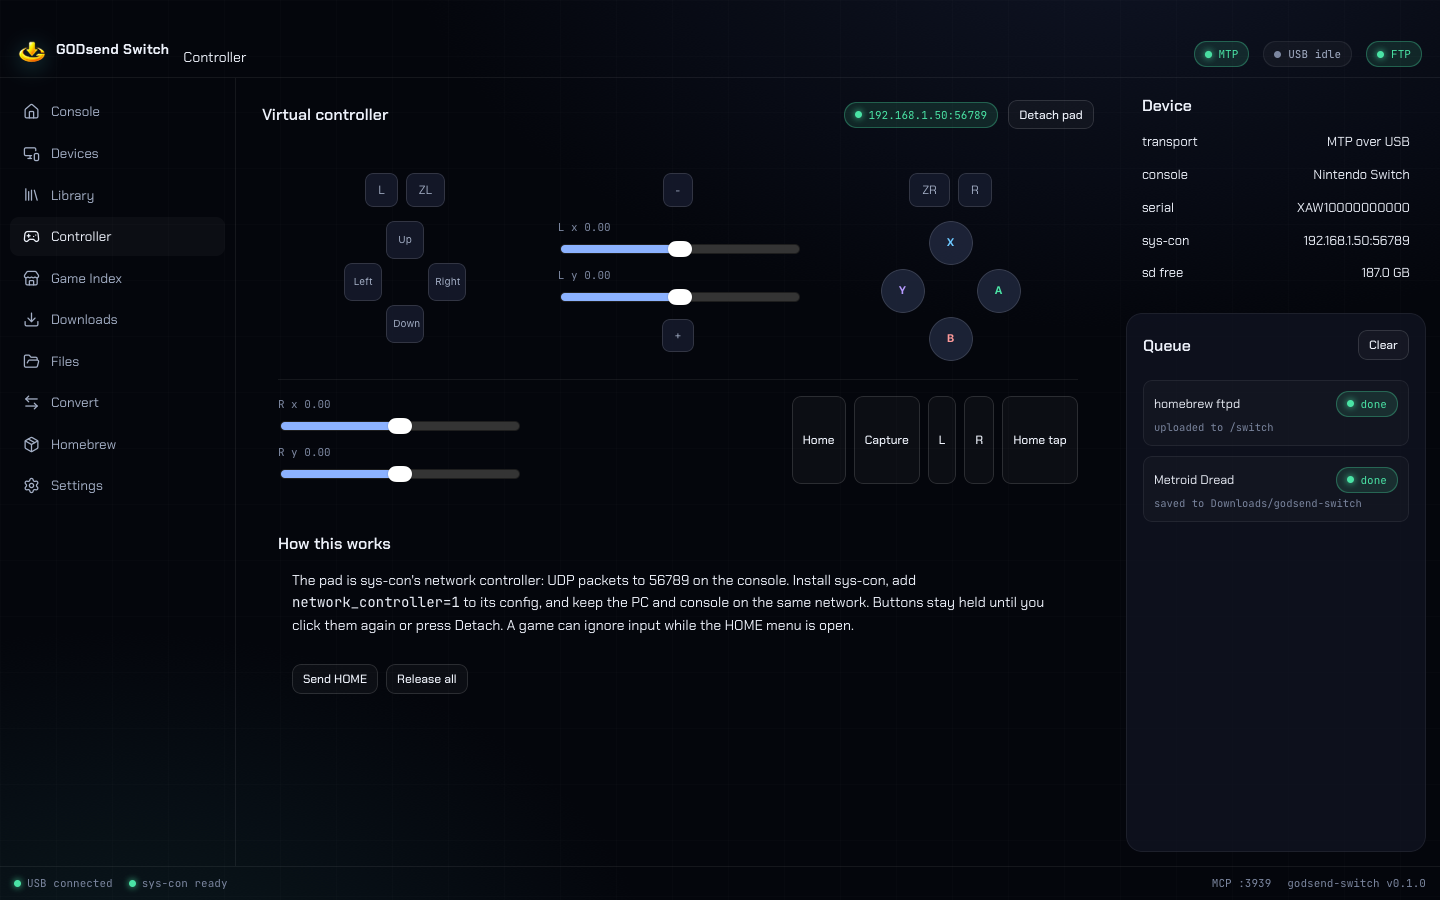
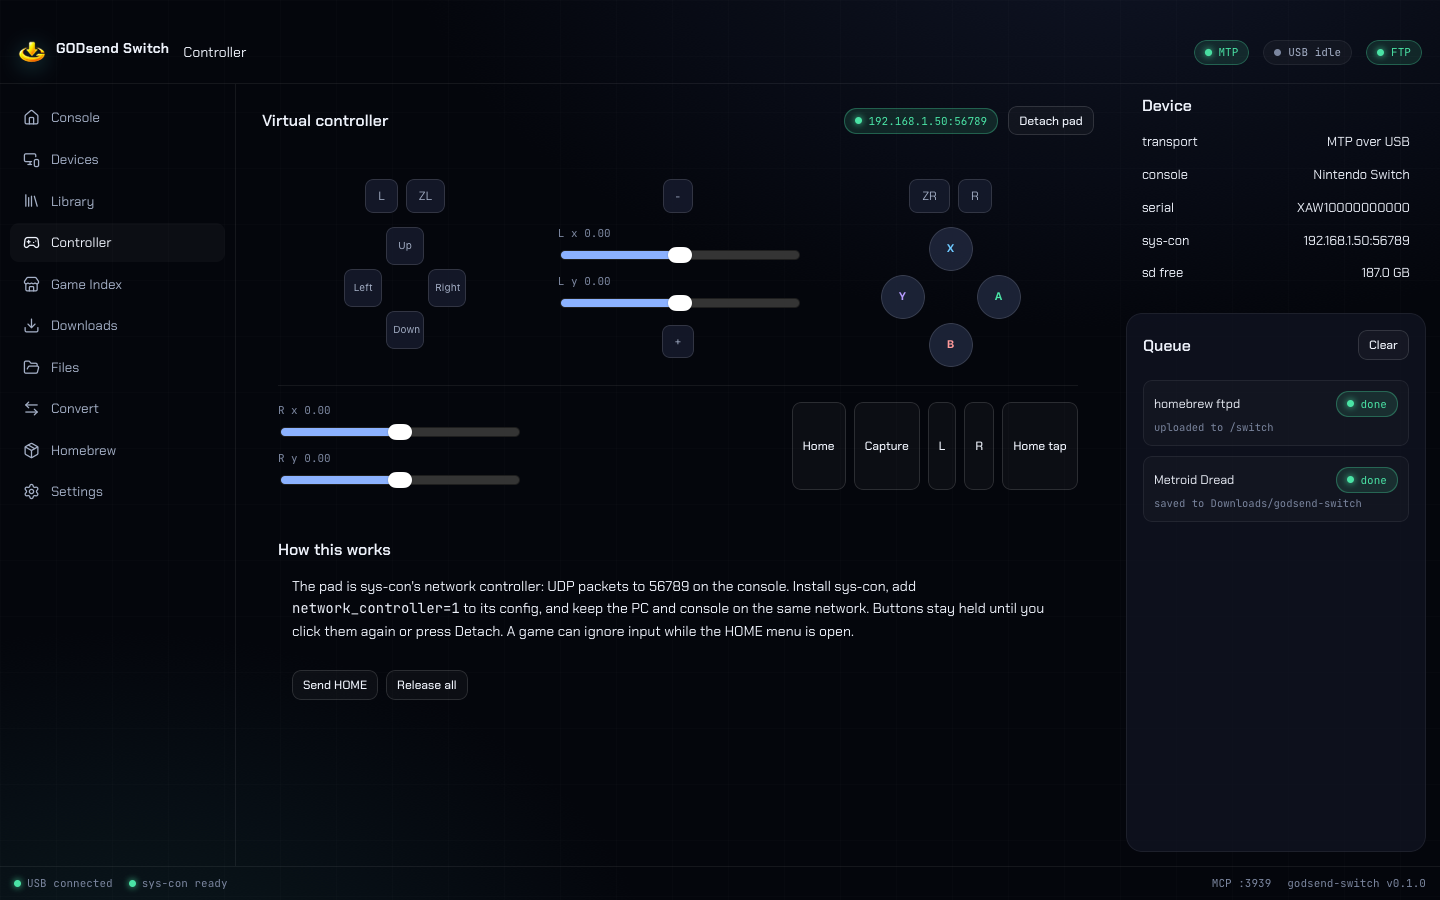
ui: match the family macOS topbar inset (84px bar, 22px top padding)

diff --git a/app/src/styles.css b/app/src/styles.css
@@ -180,7 +180,7 @@ body {
 }
 
 html[data-os="mac"] .shell {
-  grid-template-rows: 78px minmax(0, 1fr) 34px;
+  grid-template-rows: 84px minmax(0, 1fr) 34px;
 }
 
 /* topbar */
@@ -196,11 +196,10 @@ html[data-os="mac"] .shell {
   user-select: none;
 }
 
-/* macOS: keep the brand left-aligned (like GODsend PSP) but sit the bar
-   contents below the traffic lights instead of shifting them right. */
+/* macOS: keep the brand left-aligned (like GODsend PSP) and pad the bar from
+   the top so the contents sit below the traffic lights, not right of them. */
 html[data-os="mac"] .topbar {
-  align-items: flex-end;
-  padding-bottom: 10px;
+  padding-top: 22px;
 }
 
 .topbar .brand {

diff --git a/CHANGELOG.md b/CHANGELOG.md
@@ -40,8 +40,8 @@ First release.
   their base.
 - Settings saves are atomic; FTP connects time out; folder uploads skip
   symlinks; remote download names cannot escape the download folder.
-- macOS keeps the brand left-aligned like GODsend PSP, sitting it below the
-  traffic lights instead of shifting it right.
+- macOS uses an 84px bar padded 22px from the top, so the brand sits below
+  the traffic lights and stays left-aligned, the same fix as GODsend PSP.
 
 ### Notes
 
